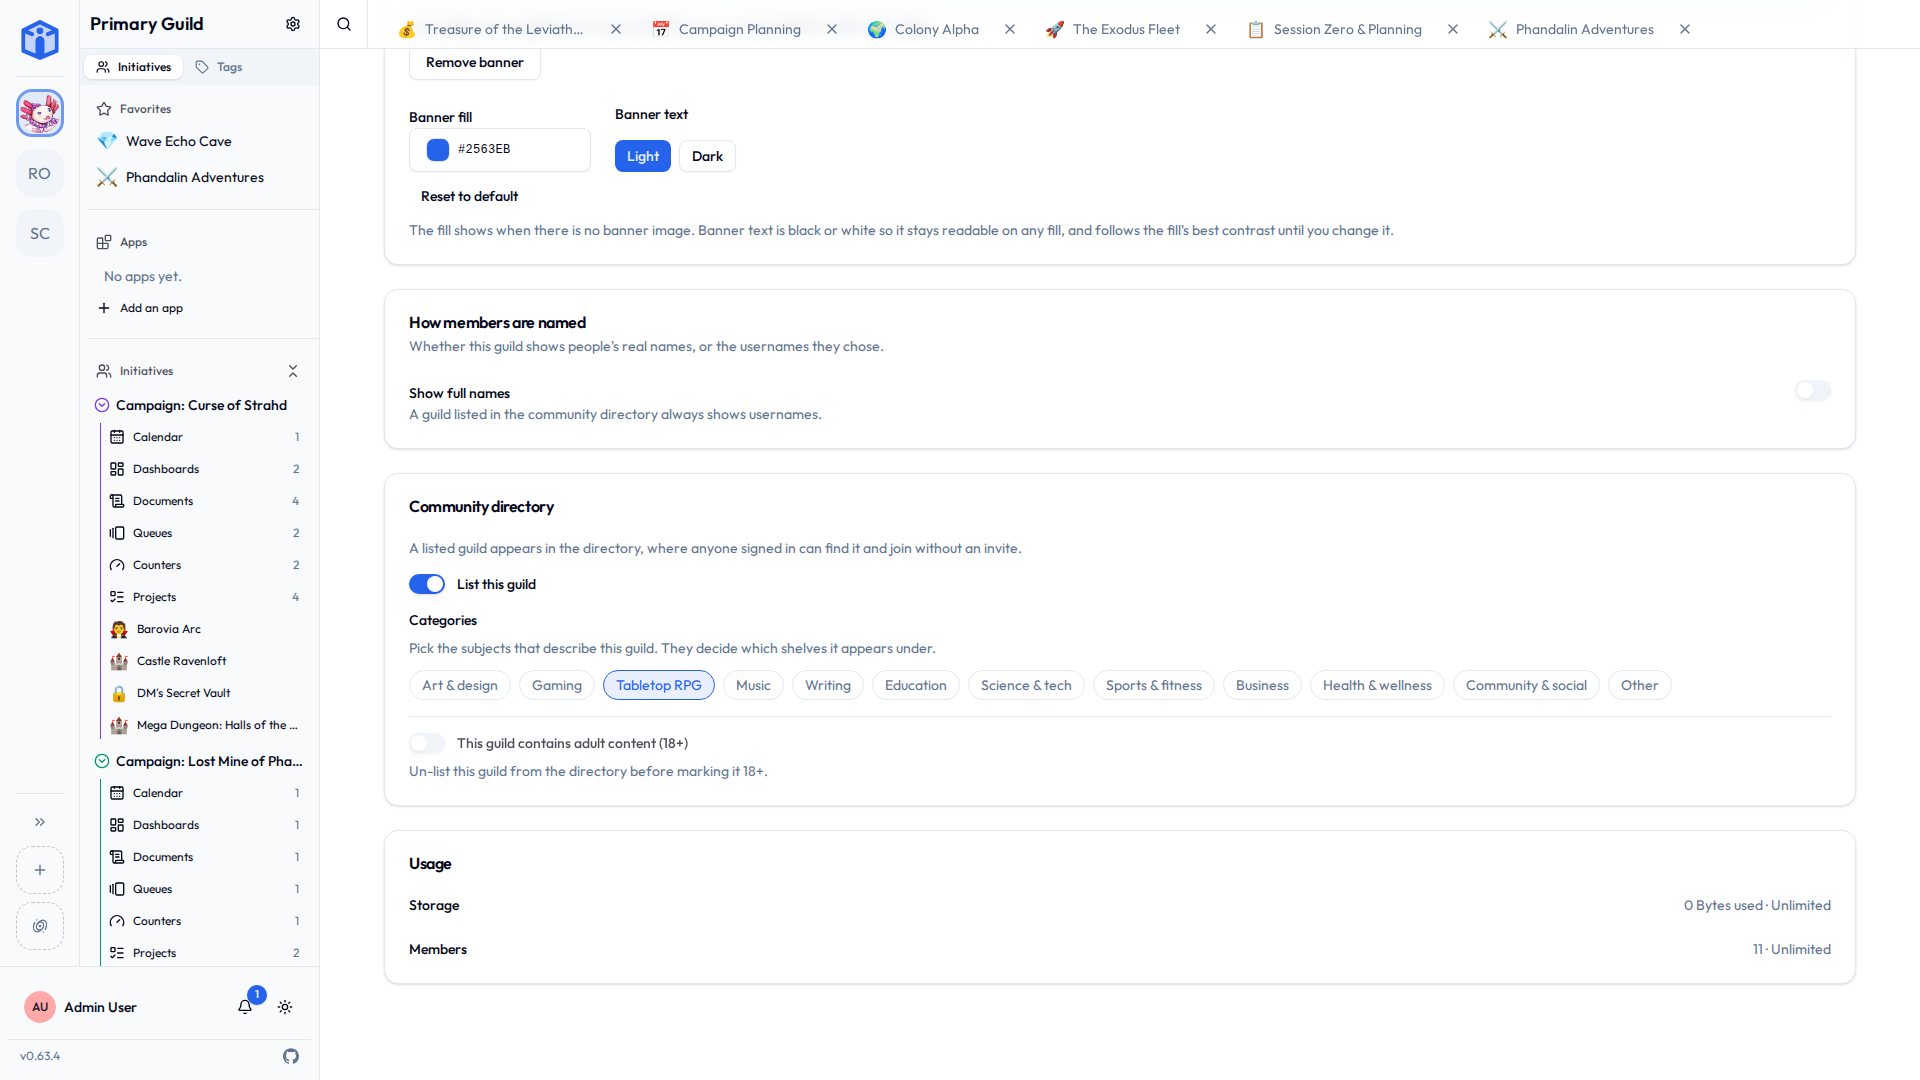
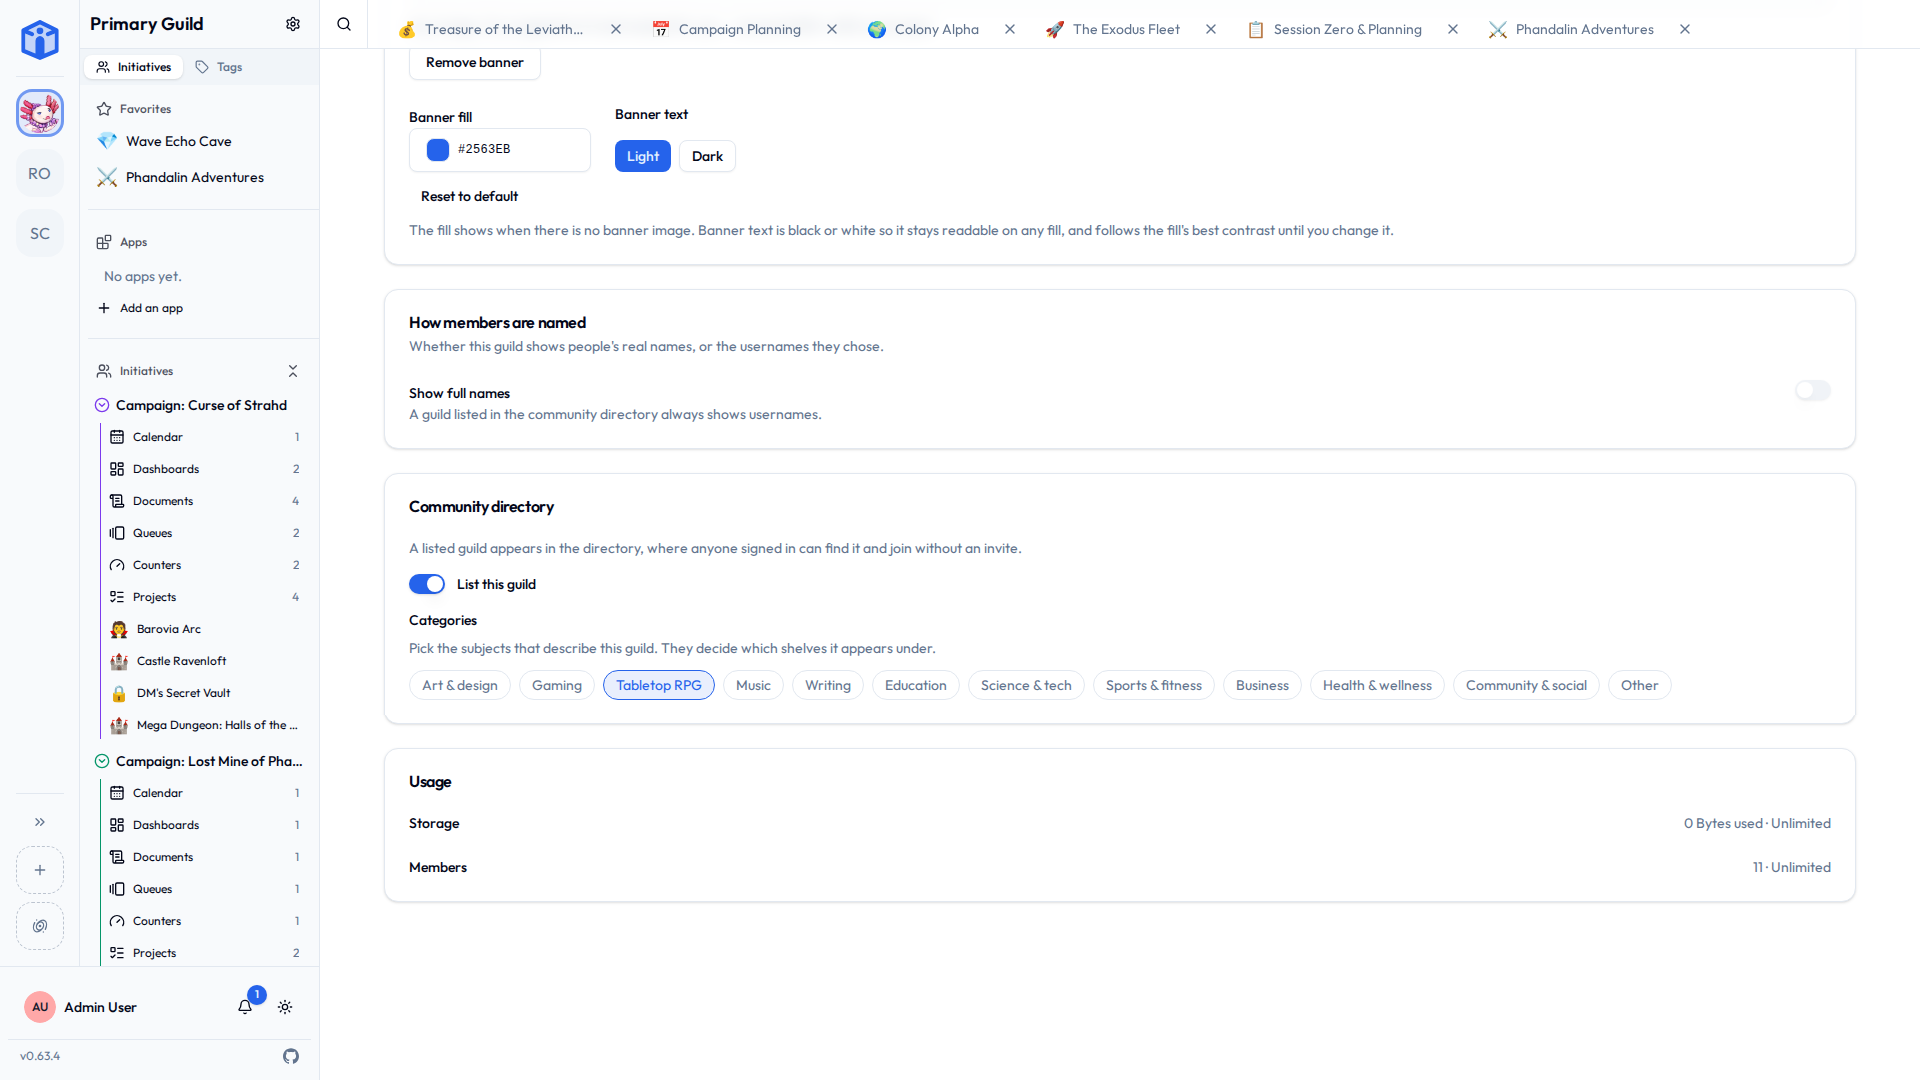
Ask the 18+ question only when listing
The standalone 18+ switch is gone from guild settings. It was a
directory question put to every guild, including the ones that will
never be in a directory, sitting next to a hint about a listing they
had not asked for.

The publish dialog's certification is now the only place the question
is asked, and the only thing that answers it: ticking it sets the guild
to "no" whether it was unanswered or a previous "yes". The listing
toggle is therefore gated on the seat cap alone, so a guild that had
declared itself 18+ can still list by certifying afresh.

diff --git a/frontend/src/components/guilds/GuildDiscoveryPanel.tsx b/frontend/src/components/guilds/GuildDiscoveryPanel.tsx
@@ -17,6 +17,10 @@
  * categories and the content certification together, and a guild whose seat
  * limit leaves no room to join is told so instead of being offered a toggle
  * that can only fail.
+ *
+ * The 18+ question is asked there and nowhere else. It is a directory question,
+ * so a guild that keeps to itself never sees it; the certification in the
+ * dialog is what answers it, at the moment it starts to matter.
  */
 
 import { useEffect, useState } from "react";
@@ -59,11 +63,9 @@ export const GuildDiscoveryPanel = () => {
   }
 
   const listed = activeGuild.is_community;
-  const isAdult = activeGuild.has_adult_content === true;
   // null is unlimited. Only an operator sets this, so an admin who hits it is
   // told who to ask rather than offered a control they cannot satisfy.
   const seatLimited = activeGuild.max_users != null && activeGuild.max_users < MIN_COMMUNITY_SEATS;
-  const canList = !isAdult && !seatLimited;
 
   const save = async (updates: Partial<GuildRead>) => {
     setSaving(true);
@@ -120,7 +122,7 @@ export const GuildDiscoveryPanel = () => {
             <Switch
               id="guild-is-community"
               checked={listed}
-              disabled={saving || (!listed && !canList)}
+              disabled={saving || (!listed && seatLimited)}
               onCheckedChange={handleToggle}
             />
             <Label htmlFor="guild-is-community">{t("guilds:settings.discoveryToggleLabel")}</Label>
@@ -130,11 +132,6 @@ export const GuildDiscoveryPanel = () => {
           {!listed && seatLimited ? (
             <p className="text-muted-foreground text-sm">
               {t("guilds:settings.discoveryCapacityBlocked")}
-            </p>
-          ) : null}
-          {!listed && isAdult && !seatLimited ? (
-            <p className="text-muted-foreground text-sm">
-              {t("guilds:settings.discoveryAdultHint")}
             </p>
           ) : null}
 
@@ -177,28 +174,6 @@ export const GuildDiscoveryPanel = () => {
             </fieldset>
           ) : null}
 
-          {/* The 18+ declaration. Its own decision, and one a guild that never
-              lists itself is free to make either way — but a listed guild has
-              already certified the opposite, so it is de-list-first. */}
-          <div className="space-y-2 border-t pt-4">
-            <div className="flex items-center gap-3">
-              <Switch
-                id="guild-has-adult-content"
-                checked={isAdult}
-                disabled={saving || listed}
-                onCheckedChange={(next) => void save({ has_adult_content: next })}
-              />
-              <Label htmlFor="guild-has-adult-content">
-                {t("guilds:settings.discoveryAdultLabel")}
-              </Label>
-            </div>
-            <p className="text-muted-foreground text-sm">
-              {listed
-                ? t("guilds:settings.discoveryAdultLocked")
-                : t("guilds:settings.discoveryAdultHint")}
-            </p>
-          </div>
-
           {error ? <p className="text-destructive text-sm">{error}</p> : null}
           {message ? <p className="text-primary text-sm">{message}</p> : null}
         </CardContent>
@@ -213,8 +188,8 @@ export const GuildDiscoveryPanel = () => {
           const ok = await save({
             is_community: true,
             categories,
-            // Ticking the certification in the dialog is what answers the 18+
-            // question; there is no other path from unanswered to "no".
+            // Ticking the certification is what answers the 18+ question — the
+            // only path to "no", from unanswered or from a previous "yes".
             has_adult_content: false,
           });
           if (ok) setPublishing(false);

diff --git a/frontend/src/components/guilds/GuildDiscoveryPanel.test.tsx b/frontend/src/components/guilds/GuildDiscoveryPanel.test.tsx
@@ -56,7 +56,6 @@ const adminGuild = (overrides: Partial<GuildRead> = {}) =>
   buildGuild({ id: 7, role: "admin", ...overrides });
 
 const listingToggle = () => screen.getByLabelText("List this guild");
-const adultToggle = () => screen.getByLabelText("This guild contains adult content (18+)");
 const dialog = () => screen.getByRole("dialog");
 const certify = () => within(dialog()).getByLabelText("This guild contains no adult content");
 
@@ -235,29 +234,42 @@ describe("GuildDiscoveryPanel", () => {
 
       expect(listingToggle()).toBeEnabled();
     });
+  });
 
-    it("does not offer the toggle to a guild that has declared itself 18+", () => {
-      renderPanel(adminGuild({ has_adult_content: true }));
-
-      expect(listingToggle()).toBeDisabled();
-      expect(adultToggle()).toBeChecked();
-    });
-
-    it("declares adult content on a guild that is not listed", async () => {
+  /** The 18+ question belongs to the directory, so the panel never puts it to a
+   *  guild outside one — the certification in the dialog is where it is asked. */
+  describe("the 18+ question", () => {
+    it("is not put to a guild that keeps to itself", () => {
       renderPanel(adminGuild());
 
-      await userEvent.click(adultToggle());
-
-      await waitFor(() => {
-        expect(patchGuild).toHaveBeenCalledWith(7, { has_adult_content: true });
-      });
+      expect(screen.queryByText(/adult content \(18\+\)/)).not.toBeInTheDocument();
     });
 
-    it("makes a listed guild come off the directory before turning 18+", () => {
+    it("is not put to a listed guild either", () => {
       renderPanel(adminGuild({ is_community: true, categories: ["art"] }));
 
-      expect(adultToggle()).toBeDisabled();
-      expect(screen.getByText(/Un-list this guild/)).toBeInTheDocument();
+      expect(screen.queryByText(/adult content \(18\+\)/)).not.toBeInTheDocument();
+    });
+
+    it("still offers the listing to a guild that had declared itself 18+", async () => {
+      renderPanel(adminGuild({ has_adult_content: true }));
+
+      expect(listingToggle()).toBeEnabled();
+
+      await userEvent.click(listingToggle());
+      await screen.findByRole("dialog");
+      await userEvent.click(within(dialog()).getByRole("button", { name: "Gaming" }));
+      await userEvent.click(certify());
+      await userEvent.click(within(dialog()).getByRole("button", { name: "List this guild" }));
+
+      // The certification answers the question afresh, whatever it said before.
+      await waitFor(() => {
+        expect(patchGuild).toHaveBeenCalledWith(7, {
+          is_community: true,
+          categories: ["gaming"],
+          has_adult_content: false,
+        });
+      });
     });
   });
 

diff --git a/CHANGELOG.md b/CHANGELOG.md
@@ -20,7 +20,7 @@ and this project adheres to [Semantic Versioning](https://semver.org/spec/v2.0.0
 
 - **An initiative can accept requests to join instead of only invitations.** Alongside invite-only and open-to-anyone, an initiative can now ask people to knock: it is listed on the guild home like an open one, but joining waits on a project manager. A member asks with an optional note, the initiative's managers are notified and see the queue with who asked, what they said, and how many times that person has been turned down here before, and approving or declining notifies them back. Approving grants the same view-only member role every other join path grants — nothing that was private becomes visible, and declining changes nothing about what they can see. Being declined is not a ban: they may ask again, and only one request can be open at a time.
 - **An open initiative can take in everyone who joins the guild.** A guild admin can mark an open initiative **auto-join**, and from then on anyone arriving in the guild — by invite, from the community directory, or through single sign-on — lands in it already a member, instead of an empty guild they have to find their way out of. It applies to arrivals from that point on and never reaches back over people already in the guild. Only an open initiative can carry it, so it hands out nothing a new member could not have joined themselves a moment later; guild admins are left out, since they already reach every initiative. A guild listed in the community directory is told when it has nowhere for arrivals to land, and can fix it from there.
-- **Guilds can list themselves in a community directory, and be joined without an invite.** "Join a community" sits under the add-a-guild button in the left rail. It opens the directory: the search box and the category shelves take over the app's sidebar, and the page beside them is a card per guild with its icon, description, tags, and member count. Both the search and the shelf are in the address, so a filtered directory is a link. A guild admin lists theirs from Settings → Guild, picking at least one category and certifying the guild holds no adult or illegal content. Guilds also carry an 18+ marker, unanswered by default; a guild marked 18+ — or one with room for only one member — is never listed. Unlisted guilds are unchanged.
+- **Guilds can list themselves in a community directory, and be joined without an invite.** "Join a community" sits under the add-a-guild button in the left rail. It opens the directory: the search box and the category shelves take over the app's sidebar, and the page beside them is a card per guild with its icon, description, tags, and member count. Both the search and the shelf are in the address, so a filtered directory is a link. A guild admin lists theirs from Settings → Guild, picking at least one category and certifying the guild holds no adult or illegal content — the certification is asked at that moment and nowhere else, so a guild that keeps to itself is never put the question. A guild with room for only one member is never listed. Unlisted guilds are unchanged.
 
   Whether a server has a directory at all is the platform owner's decision, under Settings → Platform → Community, and it starts off. While it is off there is nothing to browse, nobody can join a guild without an invite, and the listing control is absent from guild settings. Turning it off later hides the directory rather than un-listing anyone: switch it back on and the same guilds are there.
 - **An app service can be granted the app directory from Settings → Platform → App services.** Alongside "Act as members", the form now offers "Find other apps", which lets a service ask where another app installed in the same guild answers. An automation service needs both. It could previously only be conferred outside the app.

diff --git a/docs/en/admin/configuration.md b/docs/en/admin/configuration.md
@@ -36,7 +36,7 @@ Guilds can also list themselves publicly, so people find and join them without a
 
 While it's off there is nothing to browse, nobody can join a guild without an invite, and the listing control doesn't appear in guild settings at all. Turning it off again later hides the directory rather than un-listing anyone: switch it back on and the same guilds are there.
 
-Listing is then each guild admin's own decision, and Initiative refuses to list a guild marked 18+ or one with room for only a single member. See [Listing your guild](../guides/guilds.md#listing-your-guild-administrators).
+Listing is then each guild admin's own decision: they pick the guild's categories and certify that it holds no adult or illegal content. Initiative refuses to list a guild with room for only a single member. See [Listing your guild](../guides/guilds.md#listing-your-guild-administrators).
 
 ## Running behind a reverse proxy
 

diff --git a/docs/en/guides/guilds.md b/docs/en/guides/guilds.md
@@ -54,9 +54,8 @@ A guild admin can put their guild in the directory from **Guild settings → Gui
 
 You can unlist at any time; the guild and everything in it carry on exactly as before, it simply stops appearing to strangers.
 
-Two things keep a guild out of the directory whatever you set:
+The certification is the whole of the content rule — a guild that can't honestly tick it isn't listed. One other thing keeps a guild out of the directory whatever you do:
 
-- A guild marked **18+** is never listed.
 - A guild whose **member limit is set to one** is never listed — there would be no seat for anyone to join. (A nearly-full guild is fine; it's the limit itself that has to leave room.)
 
 !!! tip "Give arrivals somewhere to land"
